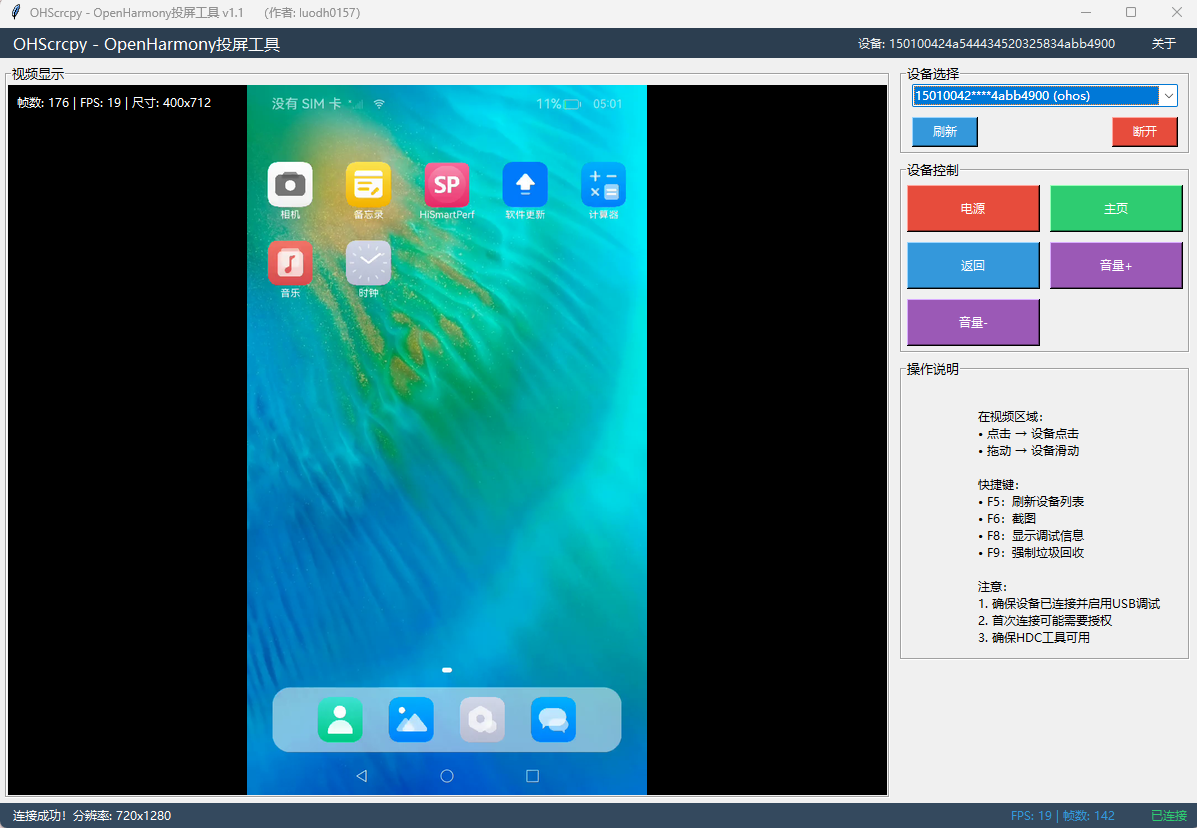
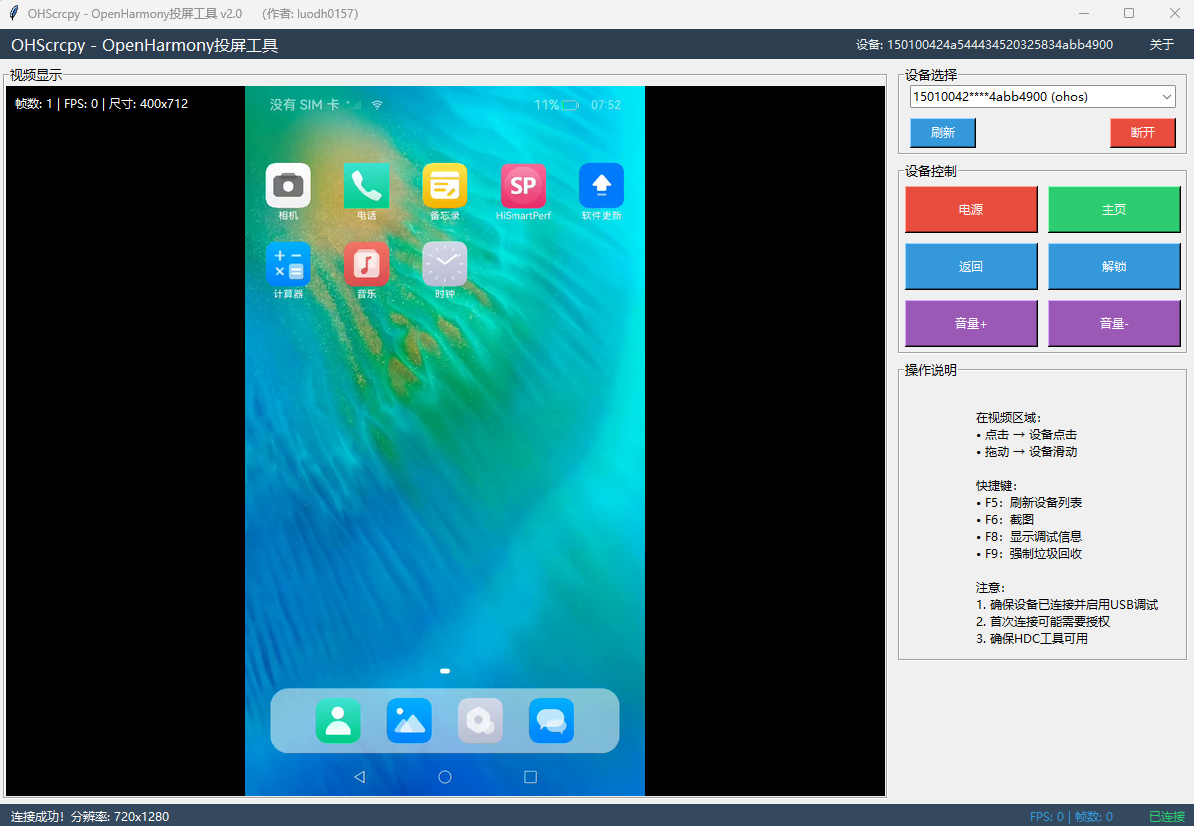
系统架构图及README更新

diff --git a/Client/README.md b/Client/README.md
@@ -37,7 +37,7 @@
 ### 协议说明
    程序使用自定义TCP协议进行通信：
 - **数据包格式**：4字节包类型 + 4字节数据长度 + 数据内容
-- **包类型**：心跳、SPS、PPS、关键帧、普通帧、配置信息
+- **包类型**：心跳、SPS、PPS、VPS、关键帧、普通帧、配置信息
 
 
 ## 使用方法

diff --git a/README.md b/README.md
@@ -80,7 +80,7 @@ OpenHarmony_Scrcpy/
 ### 协议说明
    程序使用自定义TCP协议进行通信：
 - **数据包格式**：4字节包类型 + 4字节数据长度 + 数据内容
-- **包类型**：心跳、SPS、PPS、关键帧、普通帧、配置信息
+- **包类型**：心跳、SPS、PPS、VPS、关键帧、普通帧、配置信息
 
 ### 编译步骤
    客户端是python实现，不涉及编译，只有服务端涉及编译。服务端编译方法如下：

diff --git a/Server/README.md b/Server/README.md
@@ -23,7 +23,7 @@
 ### 协议说明
    程序使用自定义TCP协议进行通信：
 - 数据包格式：4字节包类型 + 4字节数据长度 + 数据内容
-- 包类型：心跳、SPS、PPS、关键帧、普通帧、配置信息
+- 包类型：心跳、SPS、PPS、VPS、关键帧、普通帧、配置信息
 
 ### 编译步骤
    1. 下载OpenHarmony全量代码，下载命令如下：